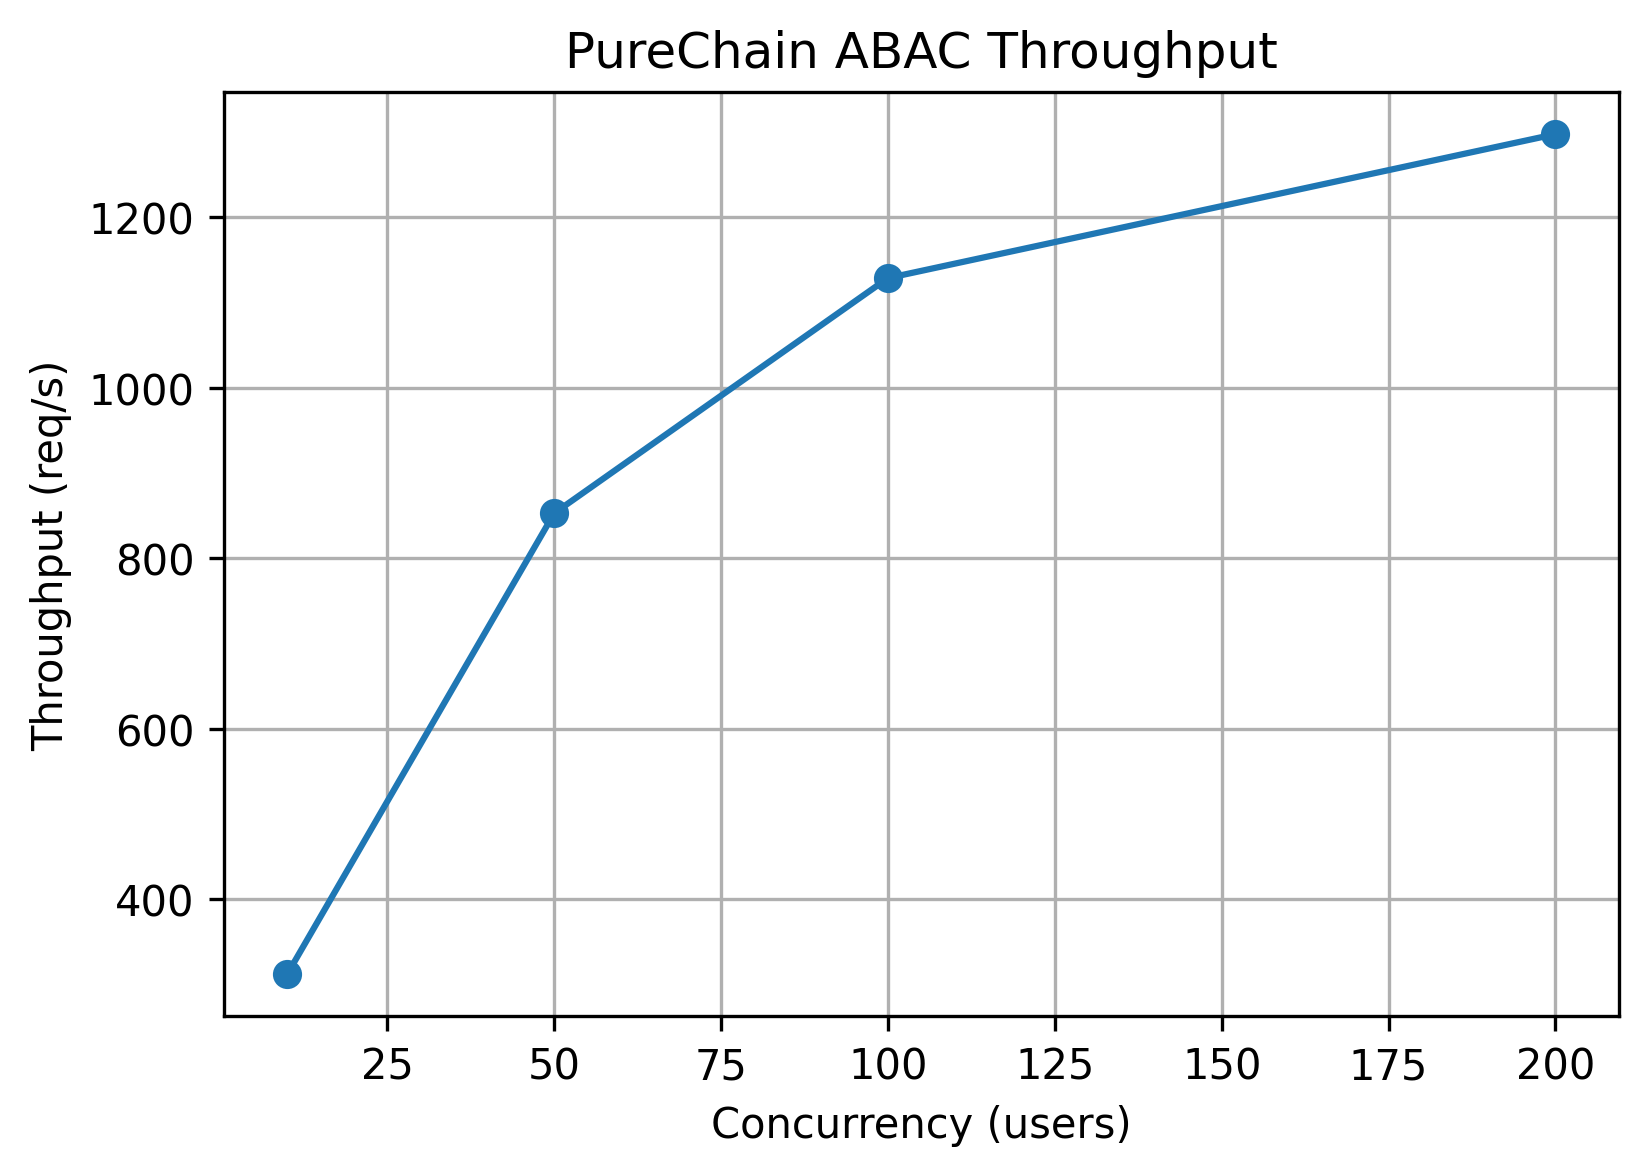
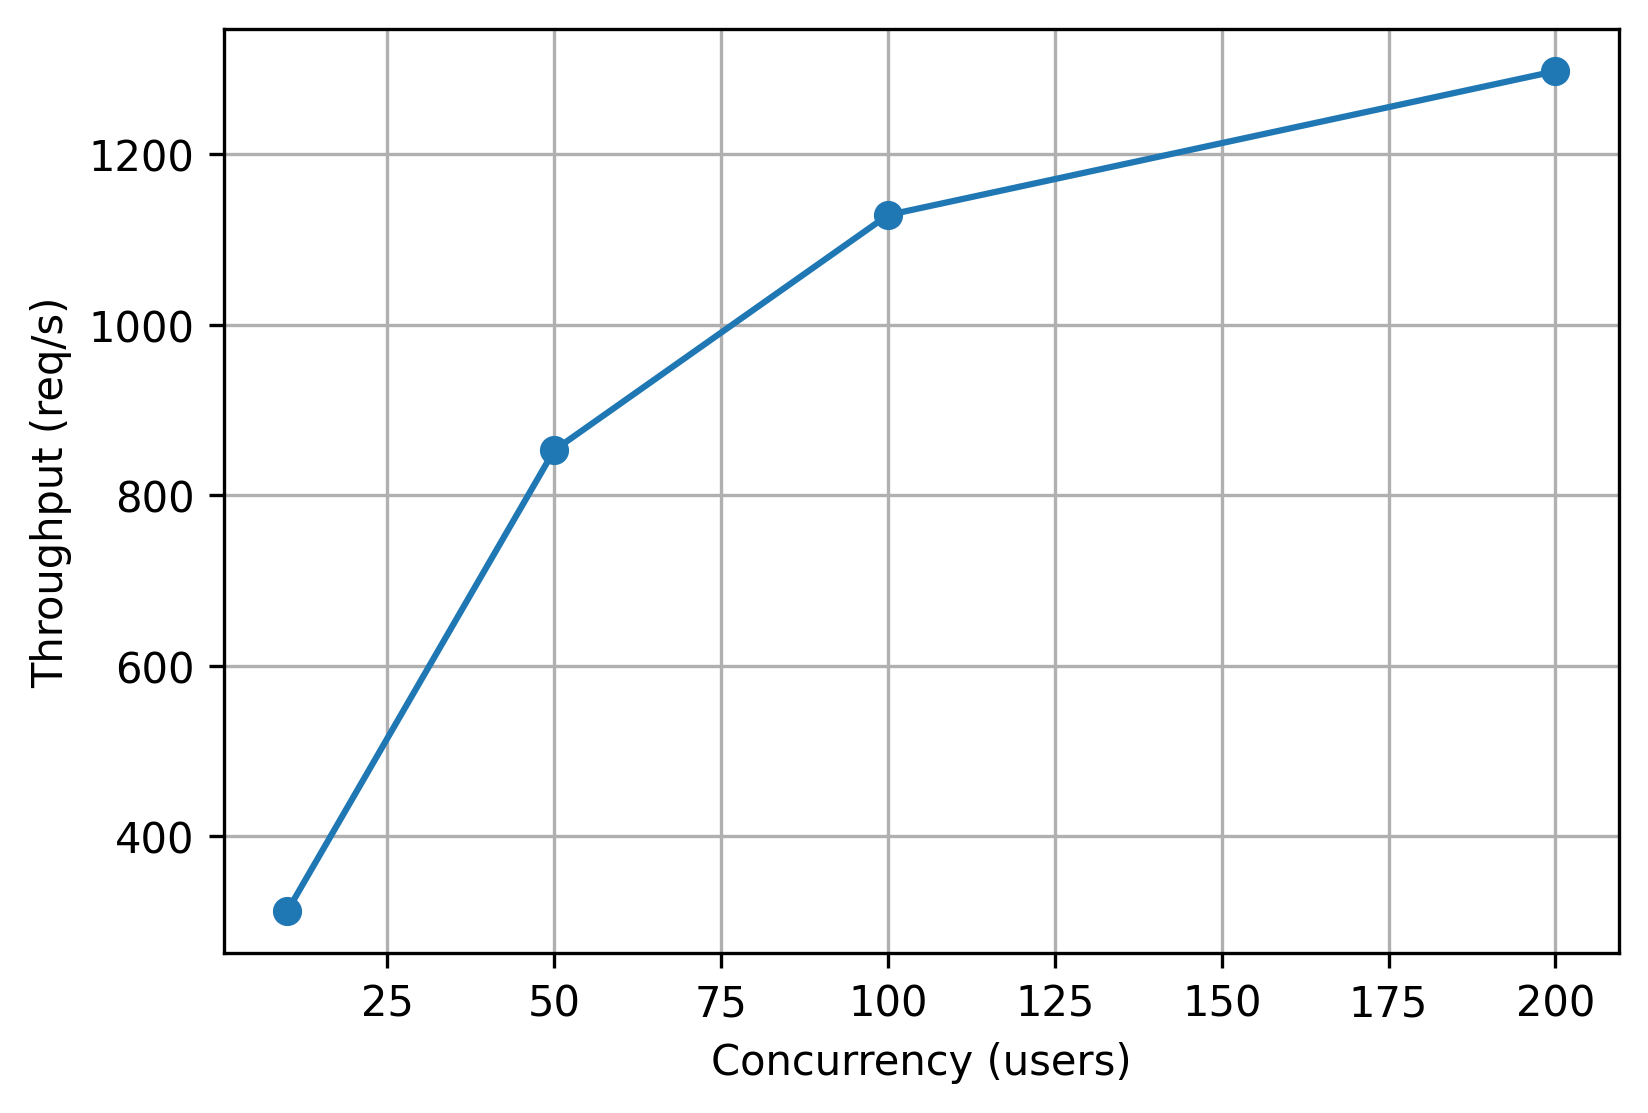
feat: add latency bar chart generation and update throughput plot

diff --git a/claimguard-peg/analyze_results.py b/claimguard-peg/analyze_results.py
@@ -46,7 +46,76 @@ def compute_latency_stats():
 
 
 # ----------------------------
-# 2. THROUGHPUT PLOT
+# 2. LATENCY BAR CHART
+# ----------------------------
+
+
+def plot_latency_bar_chart():
+    """
+    Generate a bar chart showing P50, P90, and P99 latencies
+    for different request counts from latency_read_n*.csv files
+    """
+    rows = []
+    files = sorted(glob.glob(os.path.join(RESULT_DIR, "latency_read_n*.csv")))
+
+    if not files:
+        print("No latency_read_n*.csv files found")
+        return
+
+    for path in files:
+        df = pd.read_csv(path)
+        lat = df["latency_ms"].dropna().astype(float)
+
+        if lat.empty:
+            continue
+
+        p50 = float(np.percentile(lat, 50))
+        p90 = float(np.percentile(lat, 90))
+        p99 = float(np.percentile(lat, 99))
+
+        basename = os.path.basename(path).replace(".csv", "")
+        # e.g. latency_read_n50_c10 → n=50
+        parts = basename.split("_")
+        n_part = [p for p in parts if p.startswith("n")][0]
+        n_req = int(n_part[1:])
+
+        rows.append([n_req, p50, p90, p99])
+
+    df_lat = pd.DataFrame(rows, columns=["requests", "P50", "P90", "P99"])
+    df_lat = df_lat.sort_values("requests")
+
+    print("Latency Data for Bar Chart:")
+    print(df_lat)
+    print()
+
+    # Create bar chart
+    x = np.arange(len(df_lat))
+    width = 0.25
+
+    fig, ax = plt.subplots(figsize=(10, 6))
+
+    bars1 = ax.bar(x - width, df_lat["P50"], width, label="P50", alpha=0.8)
+    bars2 = ax.bar(x, df_lat["P90"], width, label="P90", alpha=0.8)
+    bars3 = ax.bar(x + width, df_lat["P99"], width, label="P99", alpha=0.8)
+
+    ax.set_xlabel("Number of Requests", fontsize=12)
+    ax.set_ylabel("Latency (ms)", fontsize=12)
+    # ax.set_title("PureChain ABAC Latency Distribution", fontsize=14)
+    ax.set_xticks(x)
+    ax.set_xticklabels([f"n={n}" for n in df_lat["requests"]])
+    ax.legend()
+    ax.grid(True, axis='y', alpha=0.3)
+
+    plt.tight_layout()
+
+    out_path = os.path.join(OUTPUT_DIR, "latency_bar_chart.png")
+    plt.savefig(out_path, dpi=300, bbox_inches="tight")
+    print(f"Saved latency bar chart → {out_path}\n")
+    plt.close()
+
+
+# ----------------------------
+# 3. THROUGHPUT PLOT
 # ----------------------------
 
 
@@ -94,7 +163,7 @@ def plot_throughput():
     plt.plot(df_thr["concurrency"], df_thr["throughput_rps"], marker="o")
     plt.xlabel("Concurrency (users)")
     plt.ylabel("Throughput (req/s)")
-    plt.title("PureChain ABAC Throughput")
+    # plt.title("PureChain ABAC Throughput")
     plt.grid(True)
 
     out_path = os.path.join(OUTPUT_DIR, "throughput.png")
@@ -103,7 +172,7 @@ def plot_throughput():
 
 
 # ----------------------------
-# 3. POLICY UPDATE COSTS
+# 4. POLICY UPDATE COSTS
 # ----------------------------
 
 
@@ -136,7 +205,7 @@ def extract_policy_update_costs():
 
 
 # ----------------------------
-# 4. AUTHORIZATION CORRECTNESS
+# 5. AUTHORIZATION CORRECTNESS
 # ----------------------------
 
 
@@ -190,6 +259,7 @@ def compute_correctness():
 # ----------------------------
 if __name__ == "__main__":
     compute_latency_stats()
+    plot_latency_bar_chart()
     plot_throughput()
     extract_policy_update_costs()
     compute_correctness()
